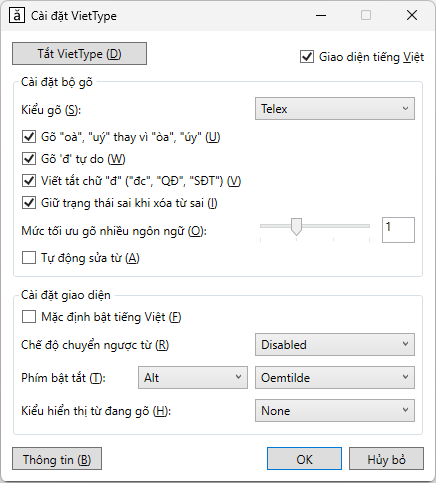
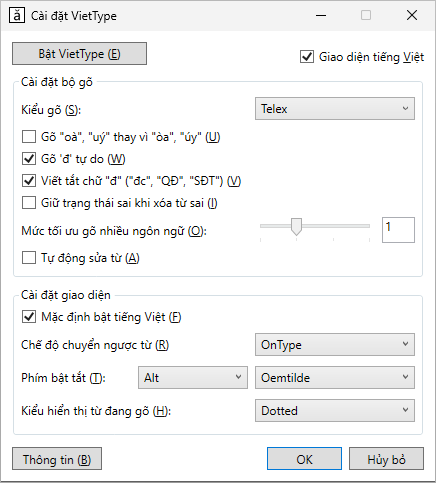
update readme and screenshot

diff --git a/README.md b/README.md
@@ -34,16 +34,16 @@ VietType sử dụng cách gõ Telex tự do. VietType thể hiện trạng thá
 
 Chương trình VietType Settings cho phép cài đặt lựa chọn của VietType. VietType có những lựa chọn sau:
 
-**Lựa chọn kiểu gõ:**
+**Cài đặt bộ gõ (Engine settings):**
 - *Typing style/Kiểu gõ:* lựa chọn kiểu gõ Simple Telex, VNI hoặc Telex truyền thống ("TelexComplicated");
 - *Use "oà", "uý" instead of "òa", "úy"/Gõ "oà", "uý" thay vì "òa", "úy:"* lựa chọn cách bỏ dấu cho các vần "oà", "uý", v.v.;
-- *Accept 'd' anywhere/Gõ 'đ' tự do:* cho phép gõ "d" để chuyển "d" -> "đ" tại bất cứ nơi nào trong từ;
+- *Accept 'd' anywhere/Gõ 'đ' tự do:* cho phép gõ "d" để chuyển "d" thành "đ" tại bất cứ nơi nào trong từ;
 - *Allow "đ" abbreviations/Viết tắt chữ "đ" ("đc", "QĐ", "SĐT"):* gõ được các từ viết tắt có chữ "đ";
 - *Backspaced invalid word stays invalid/Giữ trạng thái sai khi xóa từ sai:* quy định có giữ tiếng Việt khi xóa từ sai hay không;
 - *Multilingual typing optimization level/Mức tối ưu gõ nhiều ngôn ngữ:* thay đổi phương pháp gõ để phù hợp với người thường xuyên gõ nhiều ngôn ngữ (đặc biệt là tiếng Anh);
-- *Enable autocorrect/Bật tự sửa từ*: Bật một số phương pháp sửa từ tự động khi gõ sai (ví dụ: "miếgn" -> "miếng").
+- *Enable autocorrect/Bật tự sửa từ*: bật một số phương pháp sửa từ tự động khi gõ sai (ví dụ: "miếgn" thành "miếng").
 
-**Lựa chọn hệ thống:**
+**Cài đặt giao diện (Control settings):**
 - *Vietnamese mode by default/Mặc định bật tiếng Việt:* bật/tắt tiếng Việt khi khởi động VietType;
 - *Word reconversion mode/Chế độ chuyển ngược từ:* cho phép sửa từ sau khi đã gõ xong từ đó;
 - *Toggle key/Phím chuyển:* chọn phím chuyển Anh/Việt;
